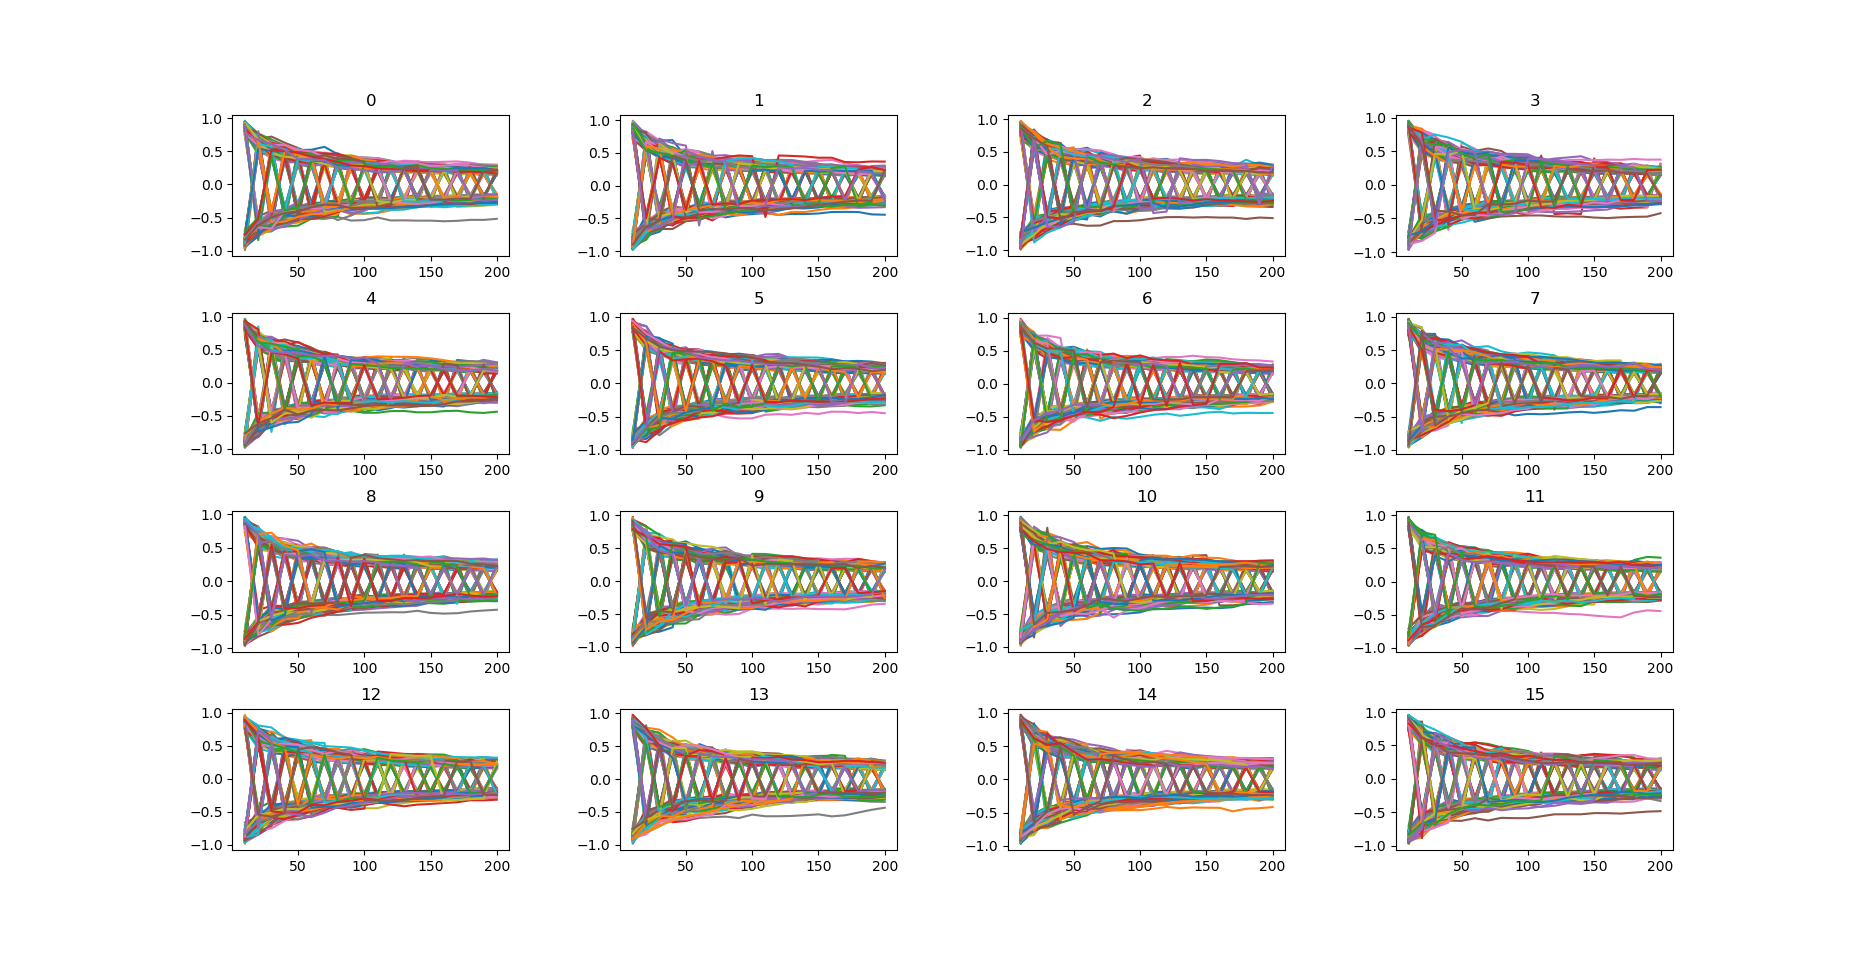
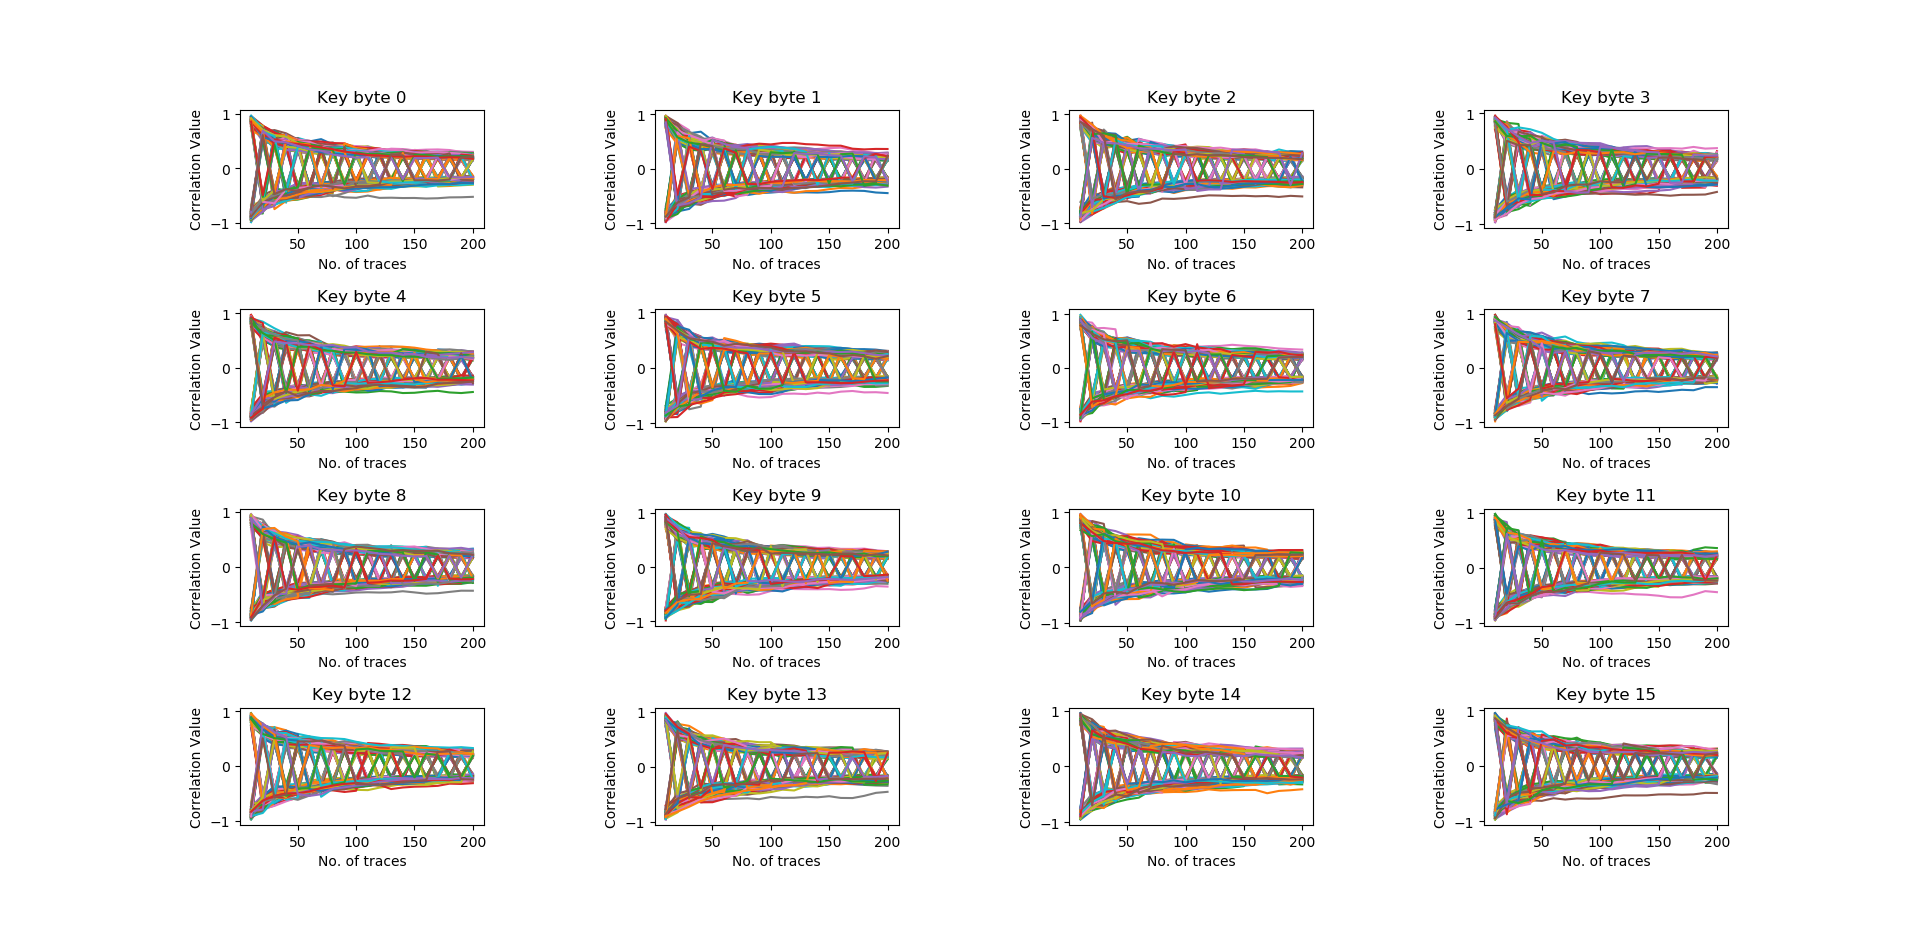
Clean up codes. Added option for max tracepoints to process

diff --git a/Main.py b/Main.py
@@ -8,67 +8,37 @@ from CPA import CPA
 def main(argv):
 
     # inputfilename, startpt, endpt = getInputsArgv(argv)
-    inputfilename, startpt, endpt = getInputs()
+    inputfilename, startpt, endpt, numTraces = getInputs()
     print("Processing ", inputfilename, "...")
+    print()
     pt, ct, tracesPoints = processCSV(inputfilename, startpt, endpt)
-    VisualizeTracesDifferences(pt, ct, tracesPoints)
-    # keysize = 16
-    #
-    #
-    # # Init CPA object
-    # cpa = CPA(keysize, len(traceSets))
-    #
-    #
-    # for tracesPointsLen in range(100, 110, 10):
-    #
-    #     # Set data points
-    #     cpa.SetTracesPointsAndPT(tracesPoints[:tracesPointsLen], pt[:tracesPointsLen])
-    #     # Do CPA
-    #     print("Doing Correlational Power Aalysis...")
-    #     key = cpa.Analyse()
-    #     # cpa.VisualizeCorrSingle(cpa.GetMatrixRelations()[0][0], cpa.GetMatrixRelations()[0][1])
-    #
-    #     print("Key(Hex): ", key)
-    #     print("Key(Text): ", bytearray.fromhex(str(key)).decode())
+    if numTraces == -1:
+        VisualizeTracesDifferences(pt, ct, tracesPoints)
+    else:
+        VisualizeTracesDifferences(pt, ct, tracesPoints[:numTraces])
 
 
-def VisualizeTracesDifferences(pt, ct, tracesPoints):
+def VisualizeCorrSingle(matrixRelation):
 
-    keysize = 16
-    traceSets = range(10, 350, 10)
-    cpaObjs = []
-    # Will contain temp 16 sets of 20 (256 by 1) matrices for concat
-    matrixRelationMatList = np.empty(shape=(keysize, len(traceSets)), dtype=object)
+    fig, axs = plt.subplots(1, 1)
+    axs.stem(matrixRelation)
+    axs.grid()
+    # axs.stem(index, matrixRelation[index])
+    axs.stem([abs(matrixRelation).argmax()], [matrixRelation[abs(matrixRelation).argmax()]], linefmt="C1-", markerfmt="C1o")
+
+    axs.set_xlabel('All possible sub-key guesses (Byte 0)')
+    axs.set_ylabel('Correlation Value')
+    plt.show()
+
+def VisualizeCorrAll(traceSets, matrixRelationMatList, keysize):
+
     # Will be size of 16
     ylistContainer = []
-
-
-    for index1, tracesPointsLen in enumerate(traceSets):
-        print("Working with ", tracesPointsLen, " traces now...")
-        cpa = CPA(keysize)
-        # Set data points
-        cpa.SetTracesPointsAndPT(tracesPoints[:tracesPointsLen], pt[:tracesPointsLen])
-        # Do CPA
-        print("Doing Correlational Power Aalysis...")
-        key = cpa.Analyse()
-        print("Key recovered with ", tracesPointsLen, " traces is ", [hex(k)+"|"+chr(k) for k in key])
-        # Size of 16
-        currentMatrixRelations = cpa.GetMatrixRelations()
-        # Populate matrix data for plotting later
-        for index2, eachByteRelation in enumerate(currentMatrixRelations):
-            # Tranpose from 1 x 256 to 256 x1
-            matrixRelationMatList[index2][index1] = (np.array(eachByteRelation).reshape(len(eachByteRelation), 1))
-
-
-        cpaObjs.append(cpa)
-
-    print("matrixRelationMatList.shape", matrixRelationMatList.shape)
 
     for m in matrixRelationMatList:
         # ylist will have a shape of (256 by 20)
         ylist = np.concatenate(m, axis=1)
         ylistContainer.append(ylist)
-
 
     # Plotting
     numOfRowsPerFig = 4
@@ -79,28 +49,69 @@ def VisualizeTracesDifferences(pt, ct, tracesPoints):
     figIndex = 0
     plotIndex = 1
     figures[figIndex] = plt.figure()
-    figures[figIndex].subplots_adjust(hspace=0.4, wspace=0.4)
+    figures[figIndex].subplots_adjust(hspace=0.7, wspace=0.7)
 
     for index, ylist in enumerate(ylistContainer):
         if index > numOfPlotsPerFig:
             figIndex += 1
             figures[figIndex] = plt.figure()
-            figures[figIndex].subplots_adjust(hspace=0.4, wspace=0.4)
+            figures[figIndex].subplots_adjust(hspace=0.7, wspace=0.7)
             plotIndex = 1
         ax = figures[figIndex].add_subplot(numOfRowsPerFig, numOfColPerFig, plotIndex)
         for y in ylist:
             ax.plot(traceSets, y)
-        ax.set_title(str(index))
+        ax.set_title('Key byte ' + str(index))
+        ax.set_xlabel('No. of traces')
+        ax.set_ylabel('Correlation Value')
         plotIndex += 1
 
-
     plt.show()
+
+
+
+def VisualizeTracesDifferences(pt, ct, tracesPoints):
+
+    keysize = 16
+    # print("Range count", (math.floor(len(tracesPoints)/10)*10)+10)
+    traceSets = range(10, (math.floor(len(tracesPoints)/10)*10)+10, 10)
+    cpaObjs = []
+    # Will contain temp 16 sets of 20 (256 by 1) matrices for concat
+    matrixRelationMatList = np.empty(shape=(keysize, len(traceSets)), dtype=object)
+
+    print("Starting CPA procedure with increasing number of traces now...")
+
+    for index1, tracesPointsLen in enumerate(traceSets):
+        print("Working with ", tracesPointsLen, " traces now...")
+        cpa = CPA(keysize)
+        # Set data points
+        cpa.SetTracesPointsAndPT(tracesPoints[:tracesPointsLen], pt[:tracesPointsLen])
+        # Do CPA
+        print("Doing Correlational Power Analysis...")
+        key = cpa.Analyse()
+        print("Key recovered with ", tracesPointsLen, " traces is ", [hex(k)+"|"+chr(k) for k in key])
+        # Size of 16
+        currentMatrixRelations = cpa.GetMatrixRelations()
+        # Populate matrix data for plotting later
+        for index2, eachByteRelation in enumerate(currentMatrixRelations):
+            # Tranpose from 1 x 256 to 256 x1
+            matrixRelationMatList[index2][index1] = (np.array(eachByteRelation).reshape(len(eachByteRelation), 1))
+
+        cpaObjs.append(cpa)
+
+    # print("matrixRelationMatList.shape", matrixRelationMatList.shape)
+
+    print("Plotting single sub-key byte correlation plot...")
+    VisualizeCorrSingle(cpaObjs[index1].GetMatrixRelations()[0])
+    print("Plotting all key bytes correlation plot...")
+    VisualizeCorrAll(traceSets, matrixRelationMatList, keysize)
+
 
 def getInputs():
 
     defaultCSV = "waveform374samples_327_2047.csv"
     defaultStart = 327
     defaultEnd = 2047
+    defaultNumTraces = -1
 
     print("Welcome to Power Analysis Tool!")
     print("===============================")
@@ -111,9 +122,11 @@ def getInputs():
     print("Start index: ", startpt)
     endpt = int(input("Please enter the end index (Press <enter> to use default end index): ") or defaultEnd)
     print("End index: ", endpt)
+    numTraces = int(input("Please enter the max no. of traces to be use for analysis.\nNo. of trace will start from 10 and end at this amount in steps of 10 (Press <enter> to use all traces available in the file): ") or defaultNumTraces)
+    print("No. of traces to use: ", numTraces if numTraces != -1 else 'All')
     print()
 
-    return inputfilename, startpt, endpt
+    return inputfilename, startpt, endpt, numTraces
 
 
 
@@ -155,8 +168,9 @@ def processCSV(filename, startpt, endpt):
     pt = dframe.iloc[:, 0:1]
     ct = dframe.iloc[:, 1:2]
     dataTraces = dframe.iloc[:, startpt + 1:endpt]
-    print("Processed data: ")
+    print("First 5 rows of processed data: ")
     print(dataTraces.head())
+    print()
 
     return pt.values, ct.values, dataTraces.values
 
